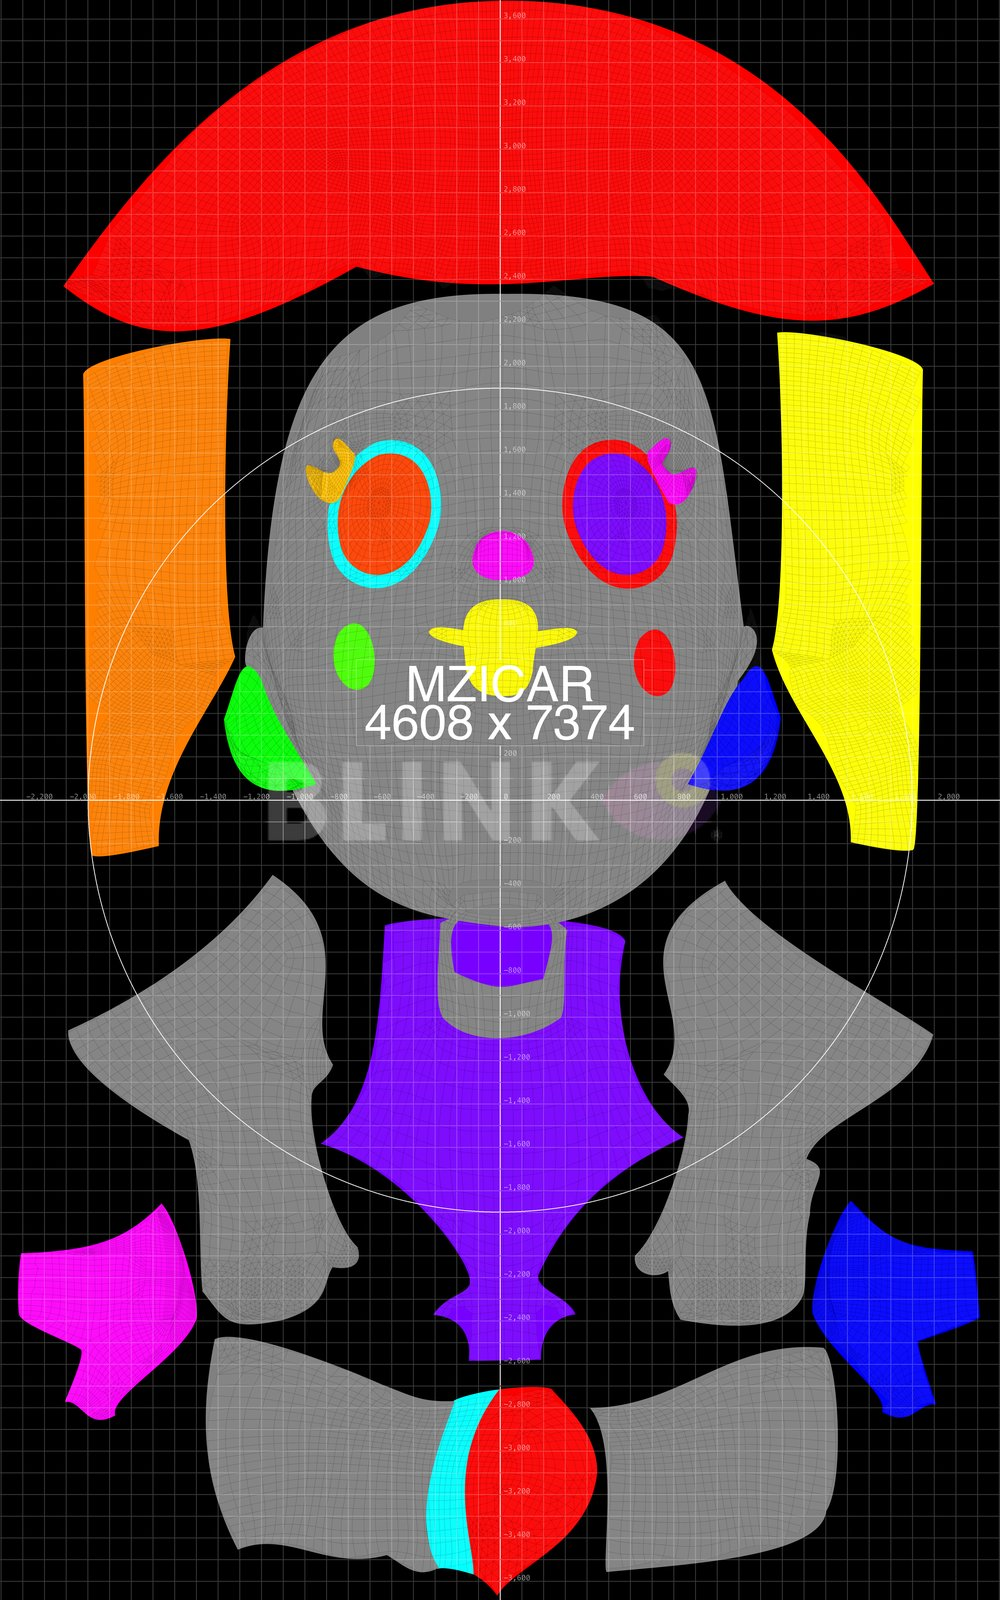
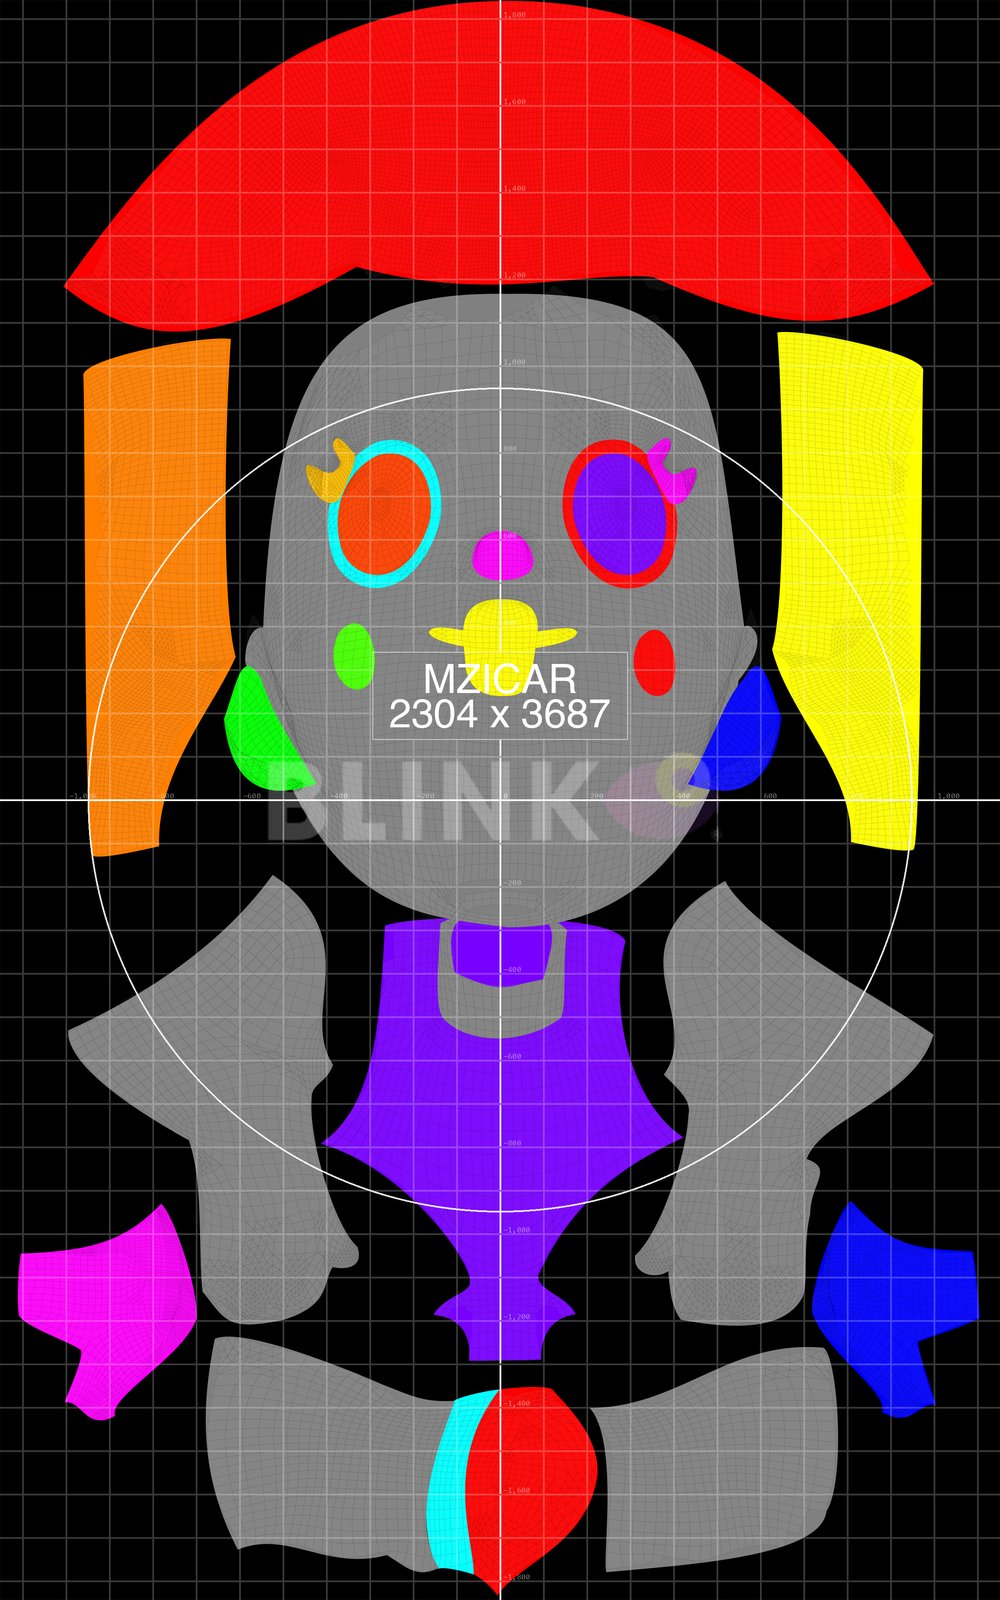
chore: publish site from 4WallVP/Blink2026@3b89961

diff --git a/exports/html/mzicar.html b/exports/html/mzicar.html
@@ -474,7 +474,7 @@
 
   
   <div class="assets-download-row">
-    <a class="header-download" href="https://github.com/4WallVP/Blink2026-Public/releases/download/delivery-mzicar-v1/MZICAR_assets_v1.zip" download>Download Assets</a>
+    <a class="header-download" href="https://github.com/4WallVP/Blink2026-Public/releases/download/delivery-mzicar-v2/MZICAR_assets_v2.zip" download>Download Assets</a>
     <a class="header-download" href="https://app.notion.com/p/4wall-wiki/3-13-Mz-Icar-34b1a83808e780538c90d4f53c93a2ab?source=copy_link" target="_blank" rel="noopener">Notion</a>
   </div>
   
@@ -767,7 +767,7 @@
   
   <div class="card">
     <div class="card-header"><span class="card-title">Version History</span></div>
-    <div class="card-body"><div class="version-card">  <div class="version-head">    <span class="version-title">Version 1</span>    <span class="version-date">07/22/2026</span>    <span class="version-author">Ted Brown</span>  </div>  </div></div>
+    <div class="card-body"><div class="version-card">  <div class="version-head">    <span class="version-title">Version 1</span>    <span class="version-date">07/22/2026</span>    <span class="version-author">Ted Brown</span>  </div>  </div><div class="version-card">  <div class="version-head">    <span class="version-title">Version 2</span>    <span class="version-date">07/22/2026</span>    <span class="version-author">Ted Brown</span>  </div>  <div class="version-notes">Scaled delivery resolution to 2304x3687.</div></div></div>
   </div>
   
 

diff --git a/404.html b/404.html
@@ -603,7 +603,7 @@
                     <div class="card-top">
                       <div class="meta-row">
                         <span class="meta-chip">Site 3.13</span>
-                        <span class="meta-chip">v1</span>
+                        <span class="meta-chip">v2</span>
                       </div>
                       <span class="card-date">07/22/2026</span>
                     </div>

diff --git a/index.html b/index.html
@@ -603,7 +603,7 @@
                     <div class="card-top">
                       <div class="meta-row">
                         <span class="meta-chip">Site 3.13</span>
-                        <span class="meta-chip">v1</span>
+                        <span class="meta-chip">v2</span>
                       </div>
                       <span class="card-date">07/22/2026</span>
                     </div>
